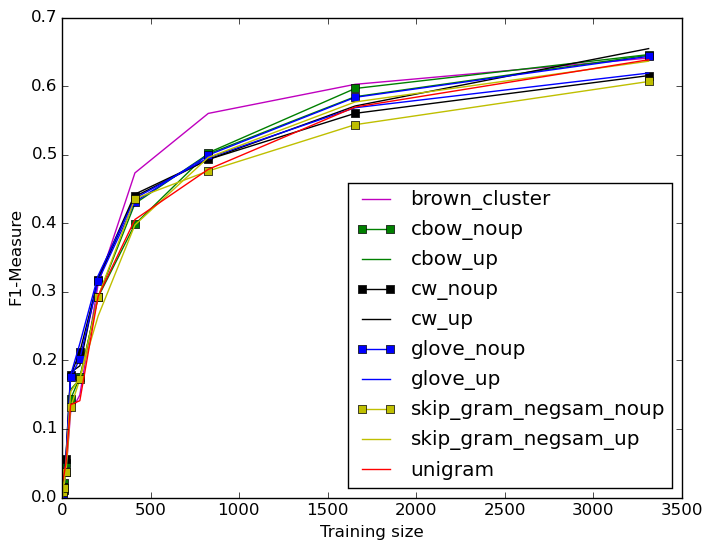
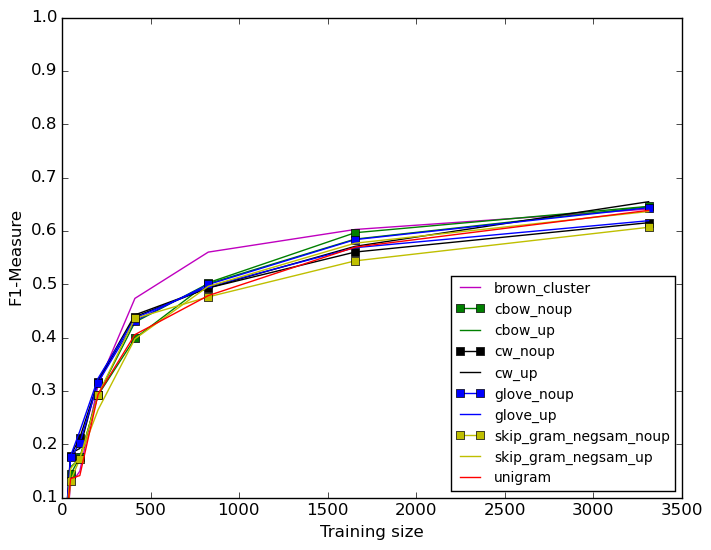
set y ranges, remove unused scripts add bash scrip to get all plots

diff --git a/plots/bestNER.py b/plots/bestNER.py
@@ -38,8 +38,7 @@ marker = ''
 linestyle = '-'
 noupMarker = 's'
 walk_dir = inputfolder
-legParams = {'legend.fontsize': 10,
-          'legend.linewidth': 0.4}
+legParams = {'legend.fontsize': 10}
 
 alist_filter = ['brown_cluster_v4000_best.txt', 
 	'cbow_negsam_noupdated_best.txt', 
@@ -145,12 +144,10 @@ for root, subdirs, files in sortedWalk(walk_dir):
 				yv = []
 				label = ''
 				marker = ''
-	
-#plt.title('Best results from all methods')
+plt.ylim([.7,1])	
 plt.xlabel('Training size')
 plt.ylabel('F1-Measure')
-
-#plt.rcParams.update(legParams)
+plt.rcParams.update(legParams)
 plt.legend(loc='lower right')
 savefig(outputfile, bbox_inches='tight')
 #plt.show()

diff --git a/plots/bestChunk.py b/plots/bestChunk.py
@@ -147,7 +147,7 @@ for root, subdirs, files in sortedWalk(walk_dir):
 				print('x ', x)						
 				print('y ', y)			
 				xv = np.array(x)
-				yv = np.array(y)
+				yv = np.array(y)				
 				plt.plot(xv, yv, label=label, linestyle=linestyle, marker=marker, color=color)	
 				x = []
 				y = []
@@ -156,6 +156,7 @@ for root, subdirs, files in sortedWalk(walk_dir):
 				label = ''
 				marker = ''
 
+plt.ylim([.7,1])
 plt.xlabel('Training size')
 plt.ylabel('F1-Measure')
 
@@ -163,6 +164,16 @@ plt.ylabel('F1-Measure')
 plt.legend(loc='lower right')
 savefig(outputfile, bbox_inches='tight')
 #plt.show()
+
+
+
+
+
+
+
+
+
+
 
 
 

diff --git a/plots/bestPOS.py b/plots/bestPOS.py
@@ -38,8 +38,7 @@ marker = ''
 linestyle = '-'
 noupMarker = 's'
 walk_dir = inputfolder
-legParams = {'legend.fontsize': 10,
-          'legend.linewidth': 0.4}
+legParams = {'legend.fontsize': 10}
 
 alist_filter = ['brown_cluster_v4000_best.txt', 
 	'cbow_negsam_noupdated_best.txt', 
@@ -145,11 +144,11 @@ for root, subdirs, files in sortedWalk(walk_dir):
 				yv = []
 				label = ''
 				marker = ''
-	
+plt.ylim([.7,1])	
 plt.xlabel('Training size')
 plt.ylabel('Accuracy')
 
-#plt.rcParams.update(legParams)
+plt.rcParams.update(legParams)
 plt.legend(loc='lower right')
 savefig(outputfile, bbox_inches='tight')
 #plt.show()

diff --git a/plots/bestMWE.py b/plots/bestMWE.py
@@ -36,8 +36,7 @@ marker = ''
 linestyle = '-'
 noupMarker = 's'
 walk_dir = inputfolder
-legParams = {'legend.fontsize': 10,
-          'legend.linewidth': 0.4}
+legParams = {'legend.fontsize': 10}
 
 alist_filter = ['brown_cluster_v4000_best.txt', 
 #	'cbow_negsam_noupdated_best.txt', 
@@ -149,10 +148,11 @@ for root, subdirs, files in sortedWalk(walk_dir):
 				label = ''
 				marker = ''
 	
+plt.ylim([.1,1])
 plt.xlabel('Training size')
 plt.ylabel('F1-Measure')
 
-#plt.rcParams.update(legParams)
+plt.rcParams.update(legParams)
 plt.legend(loc='lower right')
 savefig(outputfile, bbox_inches='tight')
 #plt.show()

diff --git a/plots/MWEoutOfVoc.py b/plots/MWEoutOfVoc.py
@@ -152,12 +152,12 @@ for root, subdirs, files in sortedWalk(walk_dir):
 				label = ''	
 				marker = ''
 
-plt.title('Out of vocabulary words')
+plt.ylim([.7,1])
 plt.xlabel('Training size')
 plt.ylabel('Accuracy')
 
 plt.rcParams.update(legParams)
-plt.legend(loc='lower right')
+plt.legend(loc='best')
 savefig(outputfile, bbox_inches='tight')
 #plt.show()
 

diff --git a/plots/POSoutOfVocOUT.py b/plots/POSoutOfVocOUT.py
@@ -150,12 +150,12 @@ for root, subdirs, files in sortedWalk(walk_dir):
 				#zv = []
 				label = ''
 				marker = ''
-	
+plt.ylim([.5,1])
 plt.xlabel('Training size')
 plt.ylabel('Accuracy')
 
 plt.rcParams.update(legParams)
-plt.legend(loc='lower right')
+plt.legend(loc='best')
 savefig(outputfile, bbox_inches='tight')
 #plt.show()
 

diff --git a/plots/POSoutOfVocIN.py b/plots/POSoutOfVocIN.py
@@ -162,12 +162,12 @@ for root, subdirs, files in sortedWalk(walk_dir):
 				zv = []
 				label = ''
 				marker = ''
-	
+plt.ylim([.5,1])
 plt.xlabel('Training size')
 plt.ylabel('Accuracy')
 
 plt.rcParams.update(legParams)
-plt.legend(loc='lower right')
+plt.legend(loc='best')
 savefig(outputfile, bbox_inches='tight')
 #plt.show()
 

diff --git a/plots/NERoutOfVocOUT.py b/plots/NERoutOfVocOUT.py
@@ -145,8 +145,8 @@ for root, subdirs, files in sortedWalk(walk_dir):
 				xv = []
 				zv = []
 				label = ''
-				marker = ''
-	
+				marker = ''	
+plt.ylim([.5,1])
 plt.xlabel('Training size')
 plt.ylabel('F1-Measure')
 

diff --git a/plots/NERoutOfVocIN.py b/plots/NERoutOfVocIN.py
@@ -152,6 +152,7 @@ for root, subdirs, files in sortedWalk(walk_dir):
 				label = ''
 				marker = ''
 		
+plt.ylim([.5,1])
 plt.xlabel('Training size')
 plt.ylabel('F1-Measure')
 
